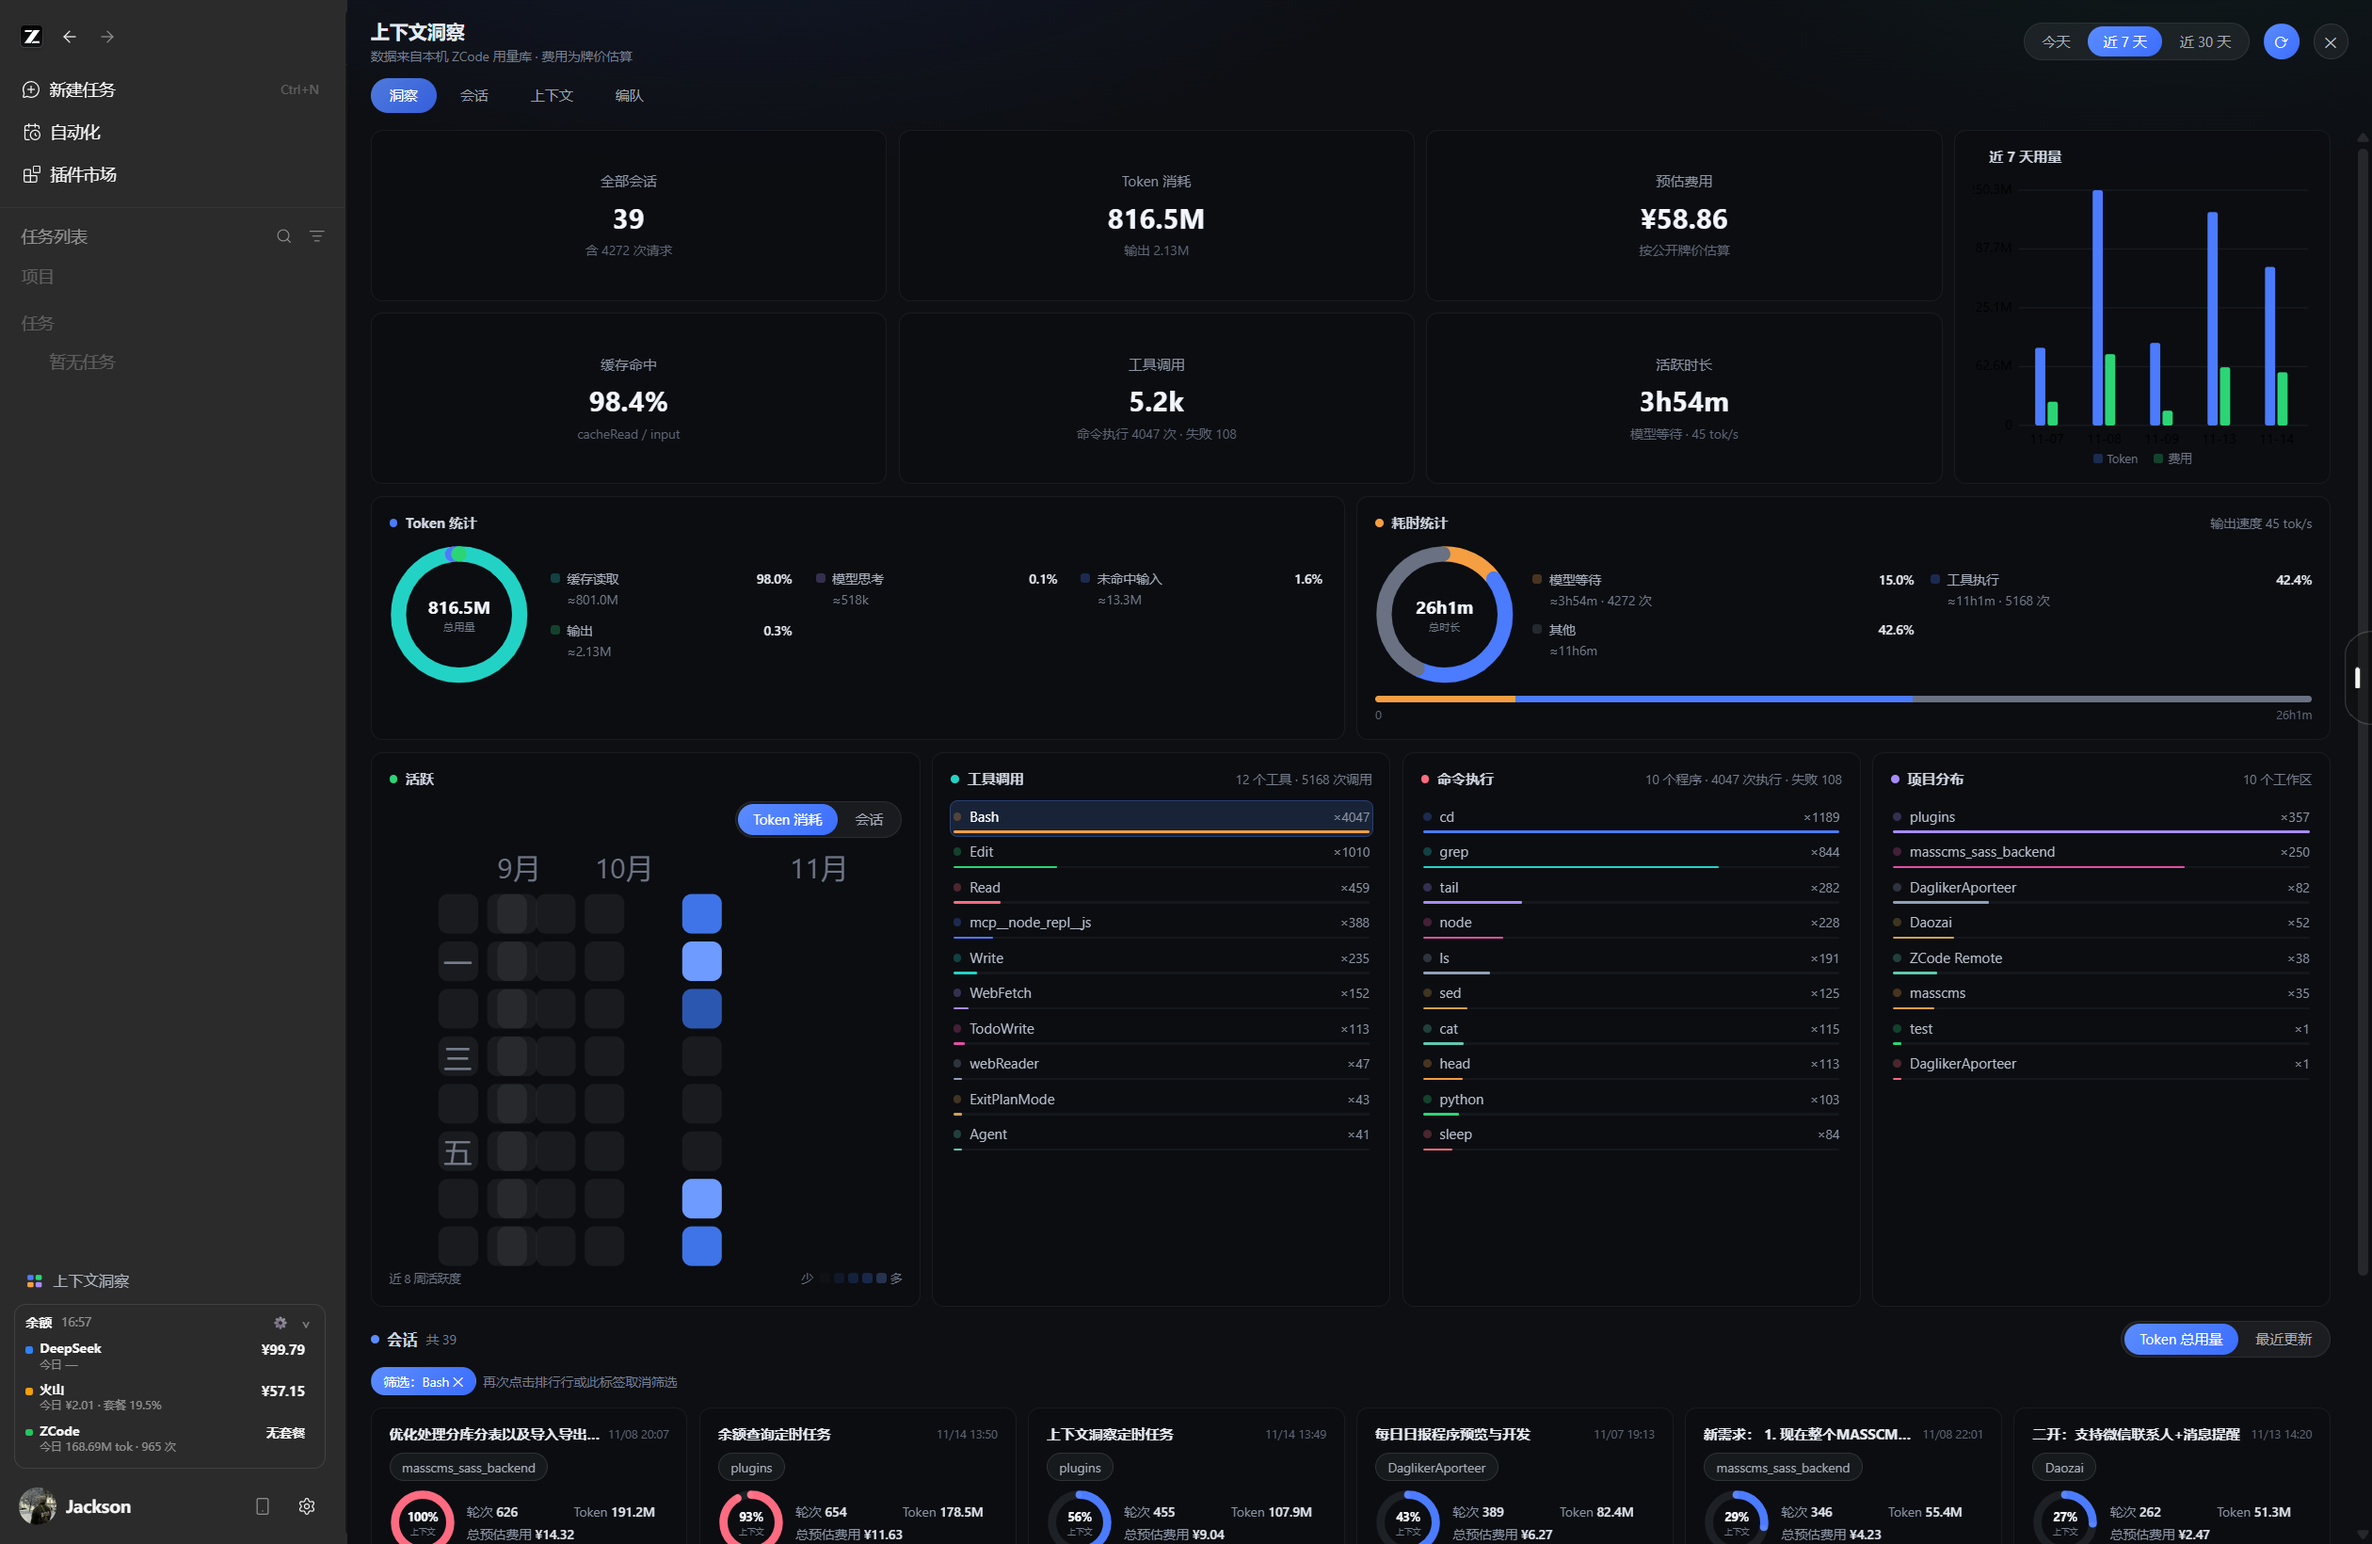
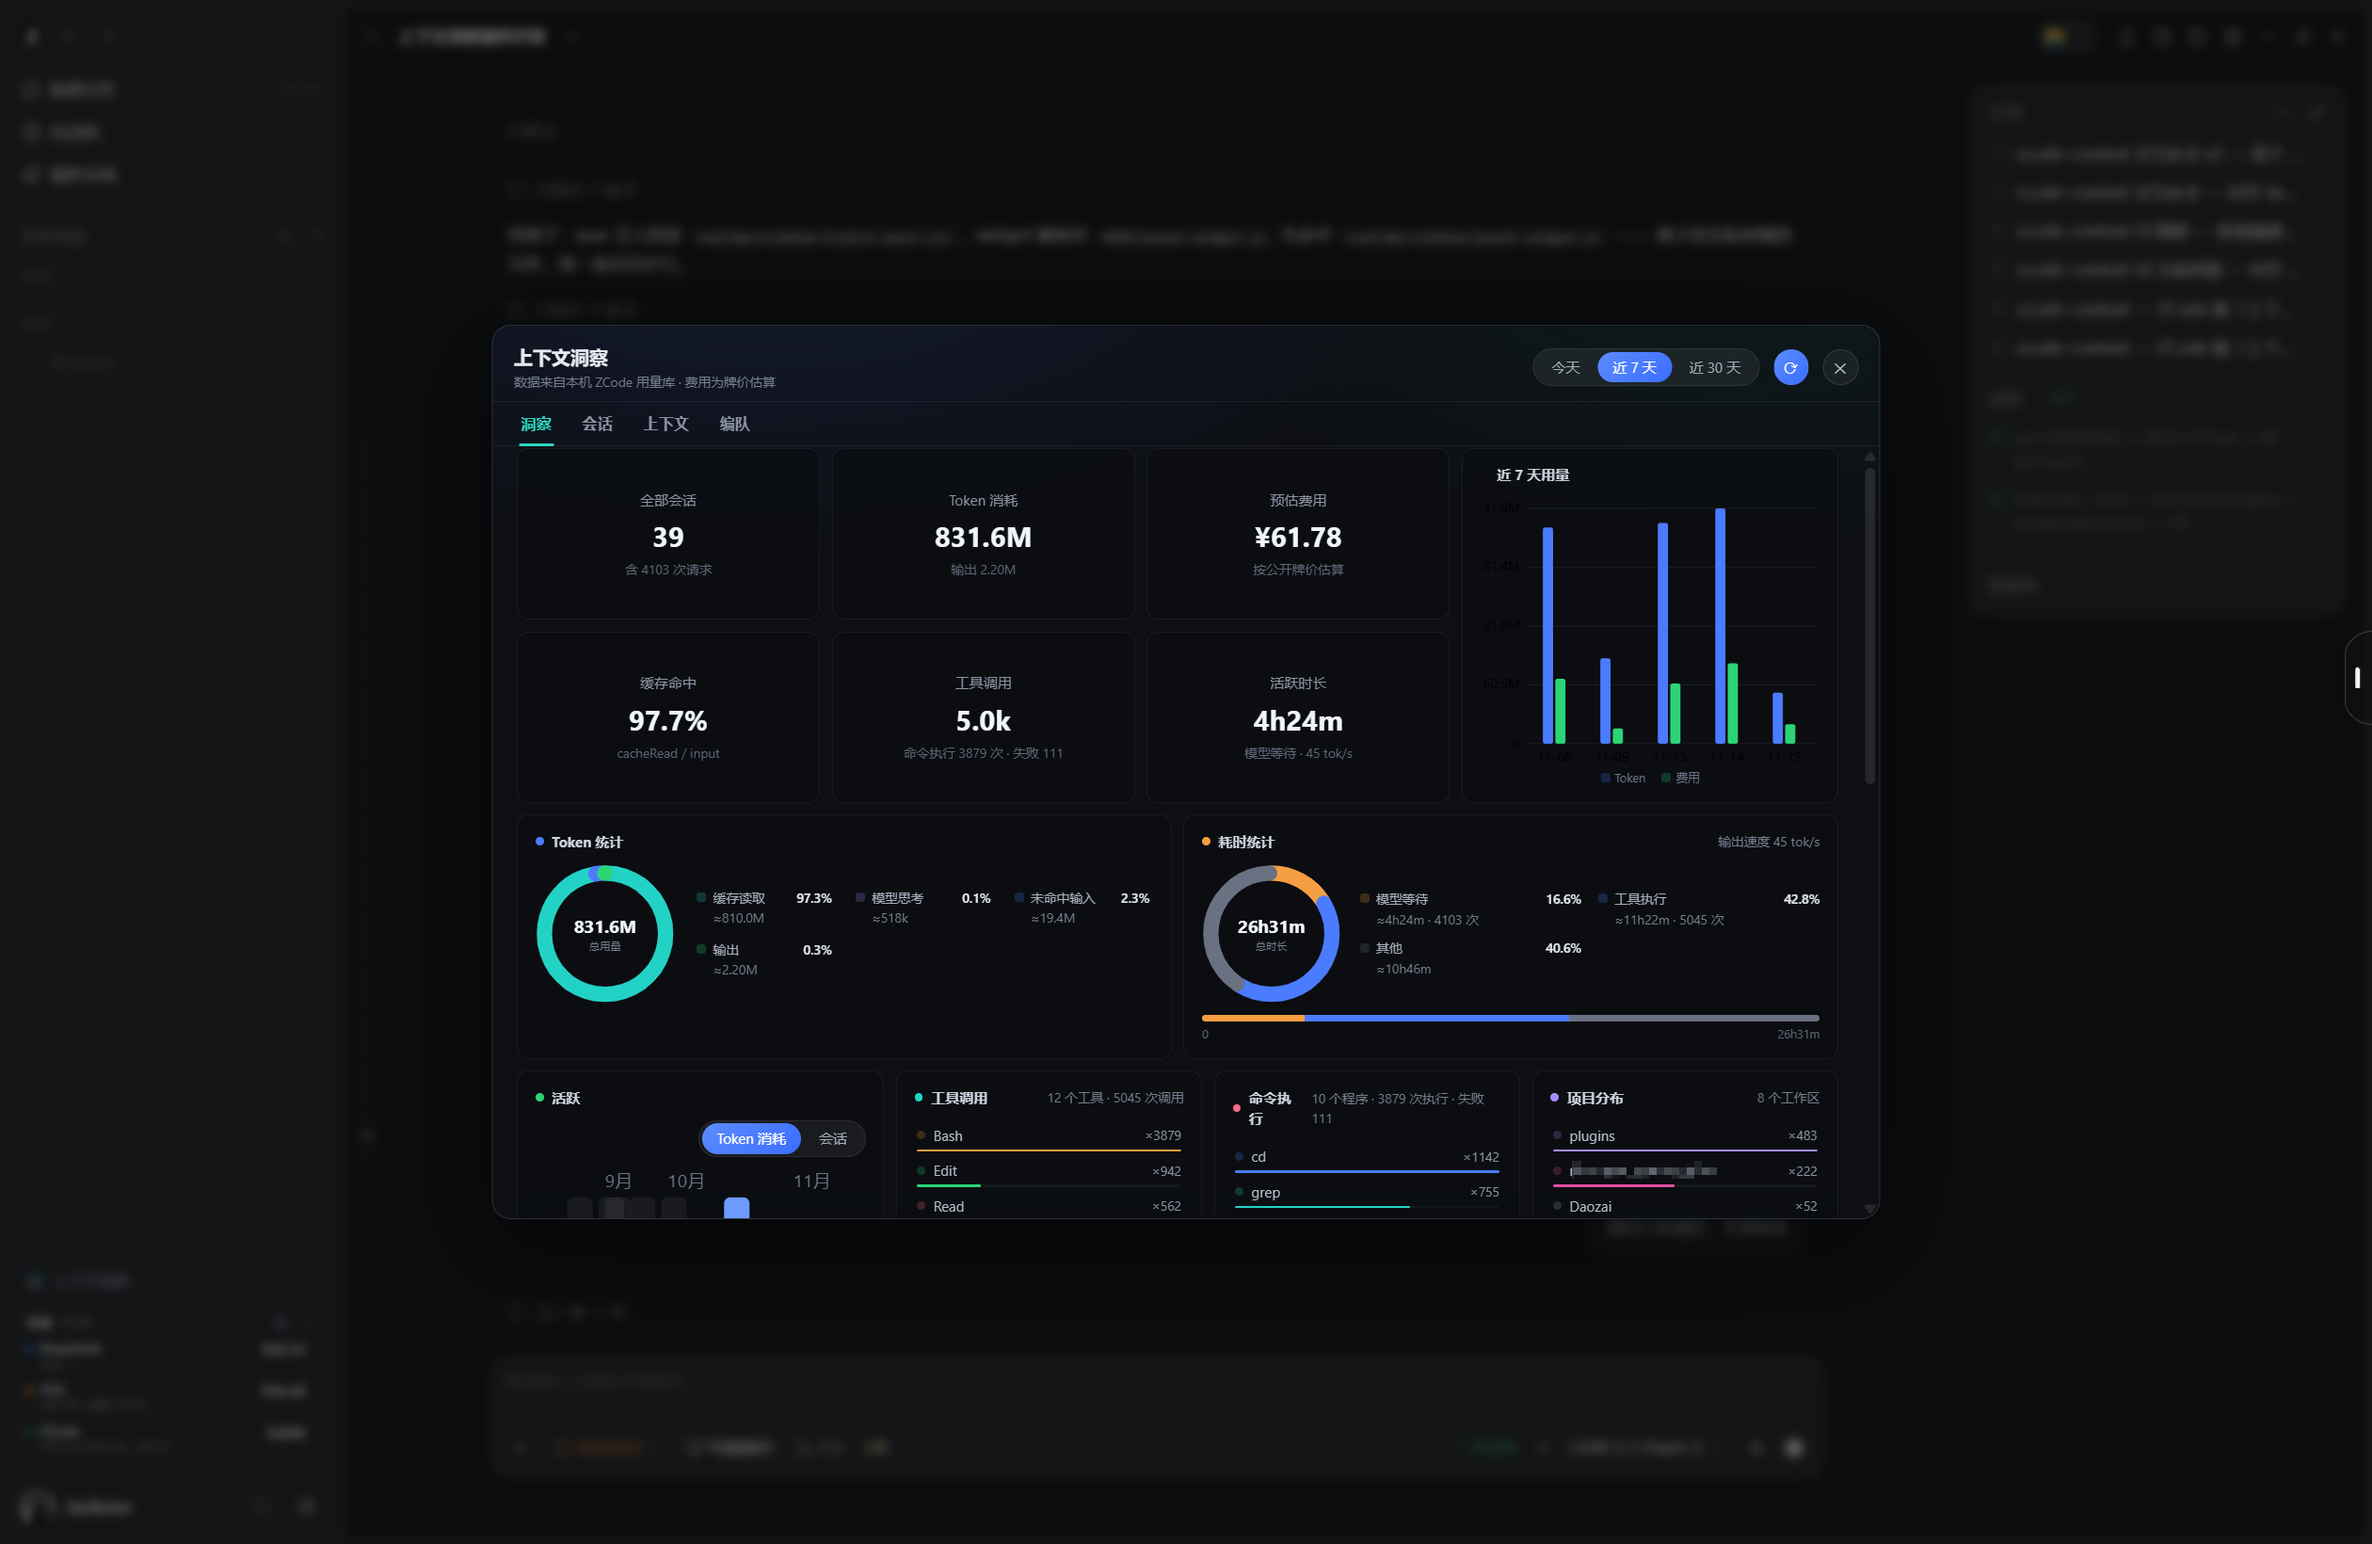
v0.3.8: modal dashboard + sidebar runtime sync + new screenshots
- Dashboard opens as centered modal dialog instead of full-screen overlay
- Hook also syncs panel files to runtime/sidebar (actual asar load path)
- New real-app screenshots incl. formation tasks/inspector; README tour updated
- Align marketplace.json zcode-context version with plugin.json (0.3.8)

diff --git a/external_plugins/zcode-context/panel/panel-widget.js b/external_plugins/zcode-context/panel/panel-widget.js
@@ -47,10 +47,12 @@
 .zci-entry:hover{background:rgba(255,255,255,.08);color:#fff}
 .zci-entry svg{flex:0 0 auto}
 
-.zci-overlay{position:fixed;inset:0;z-index:99990;display:flex;flex-direction:column;color:#e6e9f0;font-size:12px;line-height:1.5;overflow:hidden;
+.zci-backdrop{position:fixed;inset:0;z-index:99989;background:rgba(5,7,10,.62);backdrop-filter:blur(4px);display:none}
+.zci-overlay{position:fixed;left:50%;top:50%;transform:translate(-50%,-50%);z-index:99990;width:min(1180px,calc(100vw - 80px));height:min(760px,calc(100vh - 90px));display:none;flex-direction:column;color:#e6e9f0;font-size:12px;line-height:1.5;overflow:hidden;
   font-family:-apple-system,'Segoe UI',system-ui,'PingFang SC','Microsoft YaHei',sans-serif;
-  background:#0d0f13;background-image:radial-gradient(1000px 460px at 20% -10%,rgba(70,110,255,.12),transparent 60%),radial-gradient(800px 420px at 90% -8%,rgba(34,211,197,.06),transparent 60%)}
-.zci-head{display:flex;align-items:center;gap:12px;padding:14px 20px 8px;flex:0 0 auto}
+  background:#0d0f13;background-image:radial-gradient(1000px 460px at 20% -10%,rgba(70,110,255,.12),transparent 60%),radial-gradient(800px 420px at 90% -8%,rgba(34,211,197,.06),transparent 60%);
+  border:1px solid rgba(255,255,255,.12);border-radius:16px;box-shadow:0 24px 80px rgba(0,0,0,.55)}
+.zci-head{display:flex;align-items:center;gap:12px;padding:14px 18px 8px;flex:0 0 auto;border-bottom:1px solid rgba(255,255,255,.07)}
 .zci-title h1{font-size:16px;font-weight:700;margin:0}
 .zci-title .sub{font-size:11px;color:#757d8c}
 .zci-spacer{flex:1}
@@ -2322,22 +2324,14 @@
       '<button class="zci-iconbtn zci-accent" data-refresh title="刷新">⟳</button>' +
       '<button class="zci-iconbtn" data-close title="关闭">✕</button></div>' +
       '<div class="zci-tabs"></div><div class="zci-body"></div>';
+    var backdrop = document.createElement("div");
+    backdrop.className = "zci-backdrop";
+    document.body.appendChild(backdrop);
     document.body.appendChild(overlay);
-    function syncOffset() {
-      var aside = findAside();
-      var w = 262;
-      try {
-        if (aside) {
-          var rect = aside.getBoundingClientRect();
-          if (rect && rect.width > 80) w = rect.width;
-        }
-      } catch {
-        // keep default
-      }
-      overlay.style.left = w + 6 + "px";
-    }
-    syncOffset();
-    window.addEventListener("resize", syncOffset);
+    backdrop.addEventListener("click", closeOverlay);
+    backdrop.style.display = "block";
+    overlay.style.display = "flex";
+    state.backdropEl = backdrop;
     state.overlayEl = overlay;
     state.tabsEl = overlay.querySelector(".zci-tabs");
     state.bodyEl = overlay.querySelector(".zci-body");
@@ -2366,12 +2360,15 @@
     if (!state.overlayEl) buildOverlay();
     else {
       state.overlayEl.style.display = "flex";
+      if (state.backdropEl) state.backdropEl.style.display = "block";
+      if (state.onKey) document.addEventListener("keydown", state.onKey, true);
       load();
     }
   }
 
   function closeOverlay() {
     if (state.overlayEl) state.overlayEl.style.display = "none";
+    if (state.backdropEl) state.backdropEl.style.display = "none";
     if (state.onKey) document.removeEventListener("keydown", state.onKey, true);
   }
 
@@ -2496,6 +2493,7 @@
       var style = document.getElementById("zci-style");
       if (style) style.remove();
       if (state.overlayEl) state.overlayEl.remove();
+      if (state.backdropEl) state.backdropEl.remove();
       document.removeEventListener("keydown", state.onKey, true);
       window.__zcodeContextPanelBooted = false;
     } catch (e) {

diff --git a/external_plugins/zcode-context/README.md b/external_plugins/zcode-context/README.md
@@ -18,7 +18,7 @@
 
 ## 📸 界面导览 / Screenshots
 
-插件共四个视图：**洞察（总览）→ 会话 → 上下文（单会话详情）→ 编队**。以下按页面逐一说明。
+点击侧边栏「上下文洞察」后以**居中弹框**打开完整面板（背景变暗，ESC / ✕ / 点击遮罩关闭）。插件共四个视图：**洞察（总览）→ 会话 → 上下文（单会话详情）→ 编队**。以下按页面逐一说明。
 
 ### 图 1 · 洞察页 — KPI 总览与用量趋势（Overview · KPIs & Usage）
 
@@ -71,15 +71,14 @@
 - **文件活动**：头标签兼筛选 **全部 / 读取 16 / 写入 15 / 编辑 105** + **路径搜索框**；每行显示文件名、最后操作时间、读/写/改计数（写绿色、改红色），**行点击展开完整路径与操作明细**。
 - 悬停任意元素均显示口径摘要 tooltip。
 
-### 图 6 · 上下文页 — 上下文浏览器（Context · Browser, DNA 模式）
+### 图 6 · 上下文页 — 当前上下文与费用构成（Context · Composition & Cost）
 
-![上下文页 · 上下文浏览器](docs/screenshots/06-context-browser.png)
+![上下文页 · 当前上下文与费用构成](docs/screenshots/06-context-composition.png)
 
-- **七分组可折叠列表**（对齐 dsh 上下文浏览器）：系统提示词 / 工具定义 / 用户消息 / 助手回复 / 思考 / 工具结果 / 注入内容。
-- 每组显示 ≈Token 与占比，消息类组带 **`+N 条` 绿色 delta 徽标**（如 +821 条、+462 块、+269 段、+463 条）。
-- **系统提示词组展开后显示快照前 400 字**（来自 `runtime/prompt_snapshot`）；**工具定义组展开显示全部工具名清单**。
-- **组与上方「当前上下文条」双向联动**：悬停任一侧，对应分段/分组互相高亮。
-- 右侧「上下文注入与事件」卡：本轮会话注入的系统提示词与工具定义条目数。
+- **当前上下文条**：当前窗口占用（如 268k / 205k tokens）与「100.0% 上下文已用」，分段显示 系统提示词 / 工具定义 / 用户消息 / 助手回复 / 思考 / 工具结果 六类构成；**悬停分段显示「≈值 · N%」**。
+- **上下文费用构成**：按六类 token 乘以最近模型牌价估算 CNY —— 当前上下文 tokens（估算）、非缓存输入估算，环形图显示「参考费用占比」，逐类给出 ≈tokens 与 ≈¥。
+- **组与上方「当前上下文条」双向联动**：悬停任一侧，对应分段互相高亮；「各部分计费」可展开逐类计费明细。
+
 
 ### 图 7 · 编队页（Formation）
 
@@ -90,7 +89,15 @@
   - **悬停子节点会点亮父链**：其余节点降透明，仅主节点与该子节点保持高亮；
   - **悬停弹出详情 tooltip**（Token、请求、活跃、子会话 id）；
   - **点击子节点直接打开该子会话的上下文详情**（子会话真实存在于本地库）。
-- **跨 Agent 协作**：按时间列出主/子 Agent 的每次请求事件（模型、输入 → 输出 token），行点击展开。
+- **跨 Agent 协作与事件检查见下图 8**。
+
+### 图 8 · 编队页 — 协作任务与事件检查（Formation · Tasks & Inspector）
+
+![编队页 · 协作任务与事件检查](docs/screenshots/08-formation-tasks.png)
+
+- **协作任务**：每个子 Agent 一行（彩色徽标 + 子 Agent · 空闲 状态），右侧汇总 Token / 费用 / 步数；行展开显示最近回报原文（Markdown 渲染）。
+- **状态筛选**：全部 / 进行中 / 待处理 / 已完成，附工作项计数；右侧搜索框按任务过滤。
+- **事件检查**：类型筛选 **全部 262 / 消息 257 / 回报 0 / 委派 5**；时间线每行显示时间、类型、模型与「输入 → 输出」token 流向，**行点击在右侧详情面板显示 时间 / 会话 id / 模型 / Token / 状态**。
 
 ---
 
